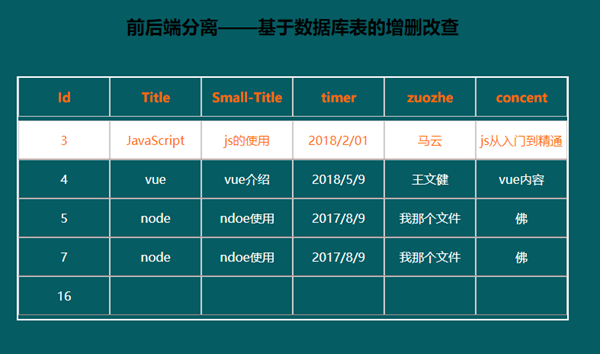
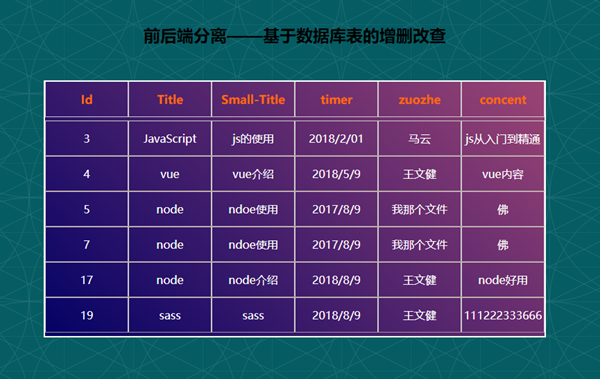
背景样式修改

diff --git a/view/css/index.css b/view/css/index.css
@@ -3,7 +3,10 @@
     margin: 0;
 }
 body{
-    background: rgb(5, 92, 99);
+   
+    /* background: linear-gradient(45deg,#020031 0,#6d3353 100%); */
+    background:  rgb(5, 92, 99) url("../bs-docs-masthead-pattern.png");
+
 }
 h2{
     width: 720px;
@@ -16,6 +19,10 @@ h2{
     border: 2px solid #ffffff;
     margin:  auto;
     padding-bottom: 5px;
+    /* background: linear-gradient(45deg,#020031 0,#6d3353 100%); */
+    background: linear-gradient(45deg,rgb(3, 2, 102) 0,#9b4474 100%);
+    /* background: linear-gradient(45deg,#0f0e2c 0,#9c4e78 100%); */
+    /* background:url("../bs-docs-masthead-pattern.png"); */
 }
 .title{
     width: 100%;
